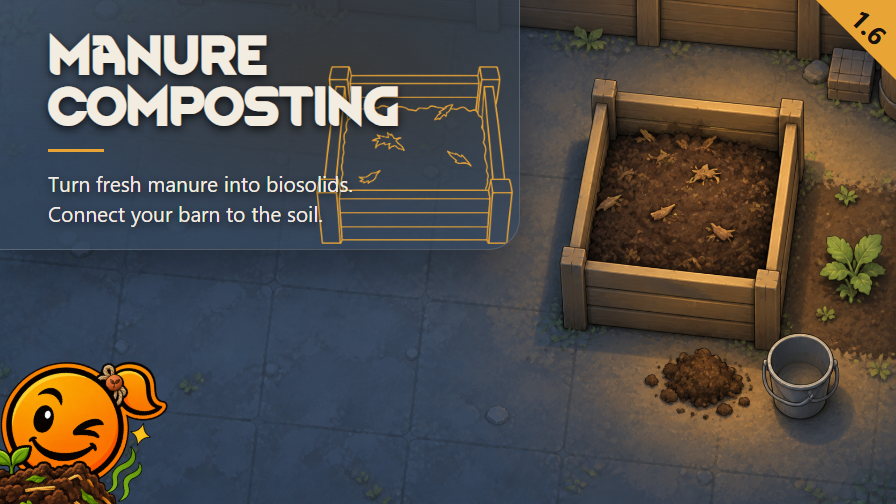
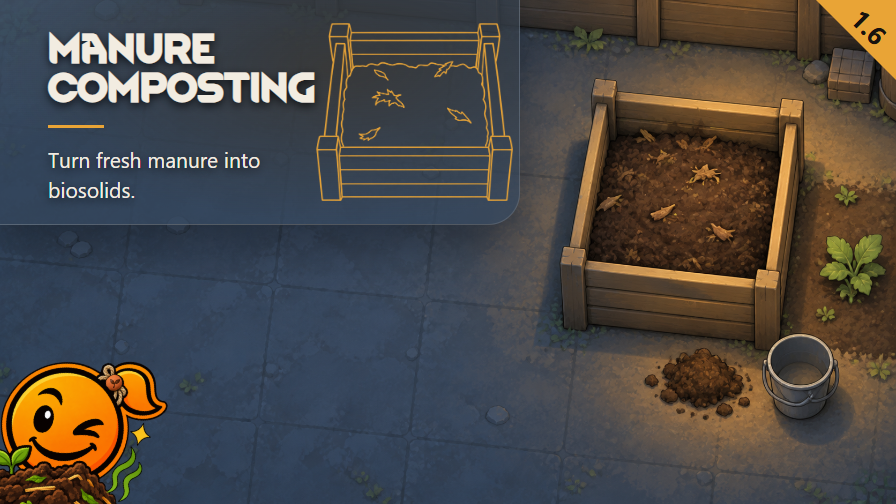
Preview: re-render with the new config schema (title one part, description, background); 0-preview.png updated

Changed region(s): [[0.0, 0.0298, 0.5938, 0.506]]

diff --git a/STATUS.md b/STATUS.md
@@ -24,8 +24,8 @@ remaining:
   - note 2026-10-27: plan rated 4.8 (rate-gallery): 1 j weak, 5 f weak. To fix before the series: header of 5 (Yuki lower right, walking toward the camera, not toward the heap), header of 7 says 18:30 but feature plays 18:00, scene 4 has no subtitle (inspect tab is not an interface window). Owner rule: missing step goes to NPT, owner arbitrates a refusal; only NSB colonists unless the owner gives an explicit reasoned exemption.
   - unverified: avec-fertilefields re-run is green (2026-10-12, ticket 20261012-050740-030-23e9, label 74a817b, 1/1: both compost recipes patched by this mod); its Player.log was read, nothing traced to this mod (`Tests/Pickle/Evidence/2026-10-12-avec-fertilefields/log-check.txt`). That pass covers feature 04 only and has no @review capture, so there is nothing to open. Kept as a record until the next commit; no further action.
 session:      local_ec541c58-b95e-425c-9f74-0f15cbcdbd65
-updated:      2026-10-27, walking-animal ticket 20261027-200654-430-d3b4 filed; stage shootGallery
-protocols_read_sha: a03dcfe2525258107c98e3ce1ce32a486456d4c3
+updated:      2026-11-10, resume: protocols re-read, Preview re-rendered (new config schema); stage shootGallery
+protocols_read_sha: 14e4ae04adf39aa54fbc62a590a00173343a4067
 echo_review_sha: 6c0ddf93feeaa3ea6216d5f01fb5871fa9b125e4
 code_review_sha: eb6ec38a6ff935237df5d0208038be710ed3b089
 ---
